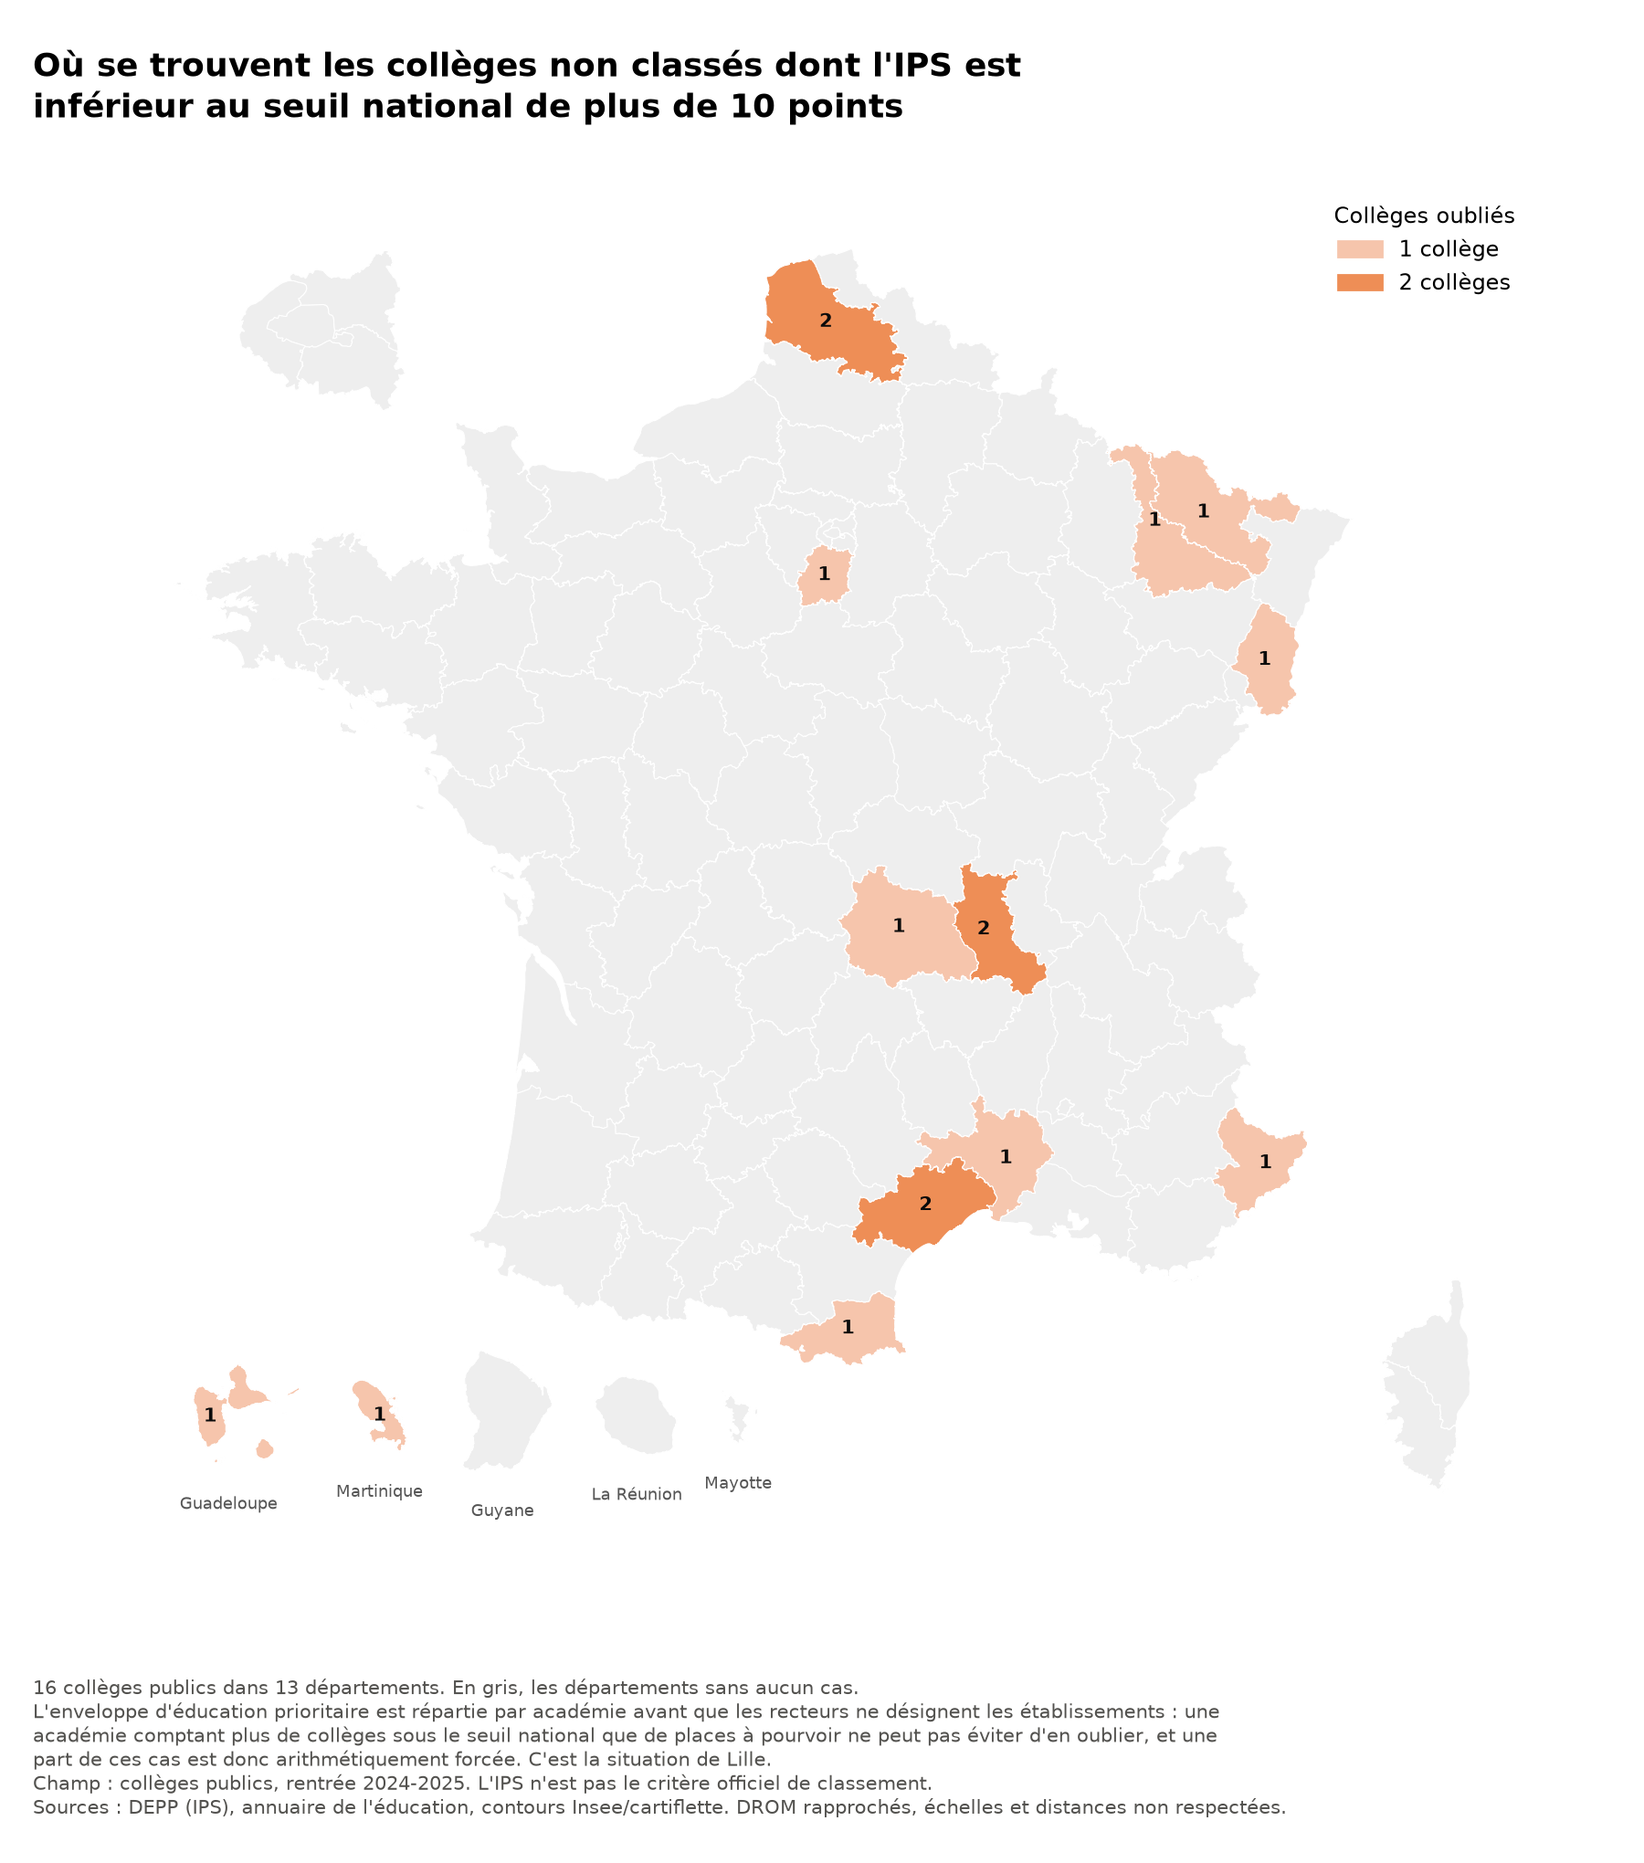
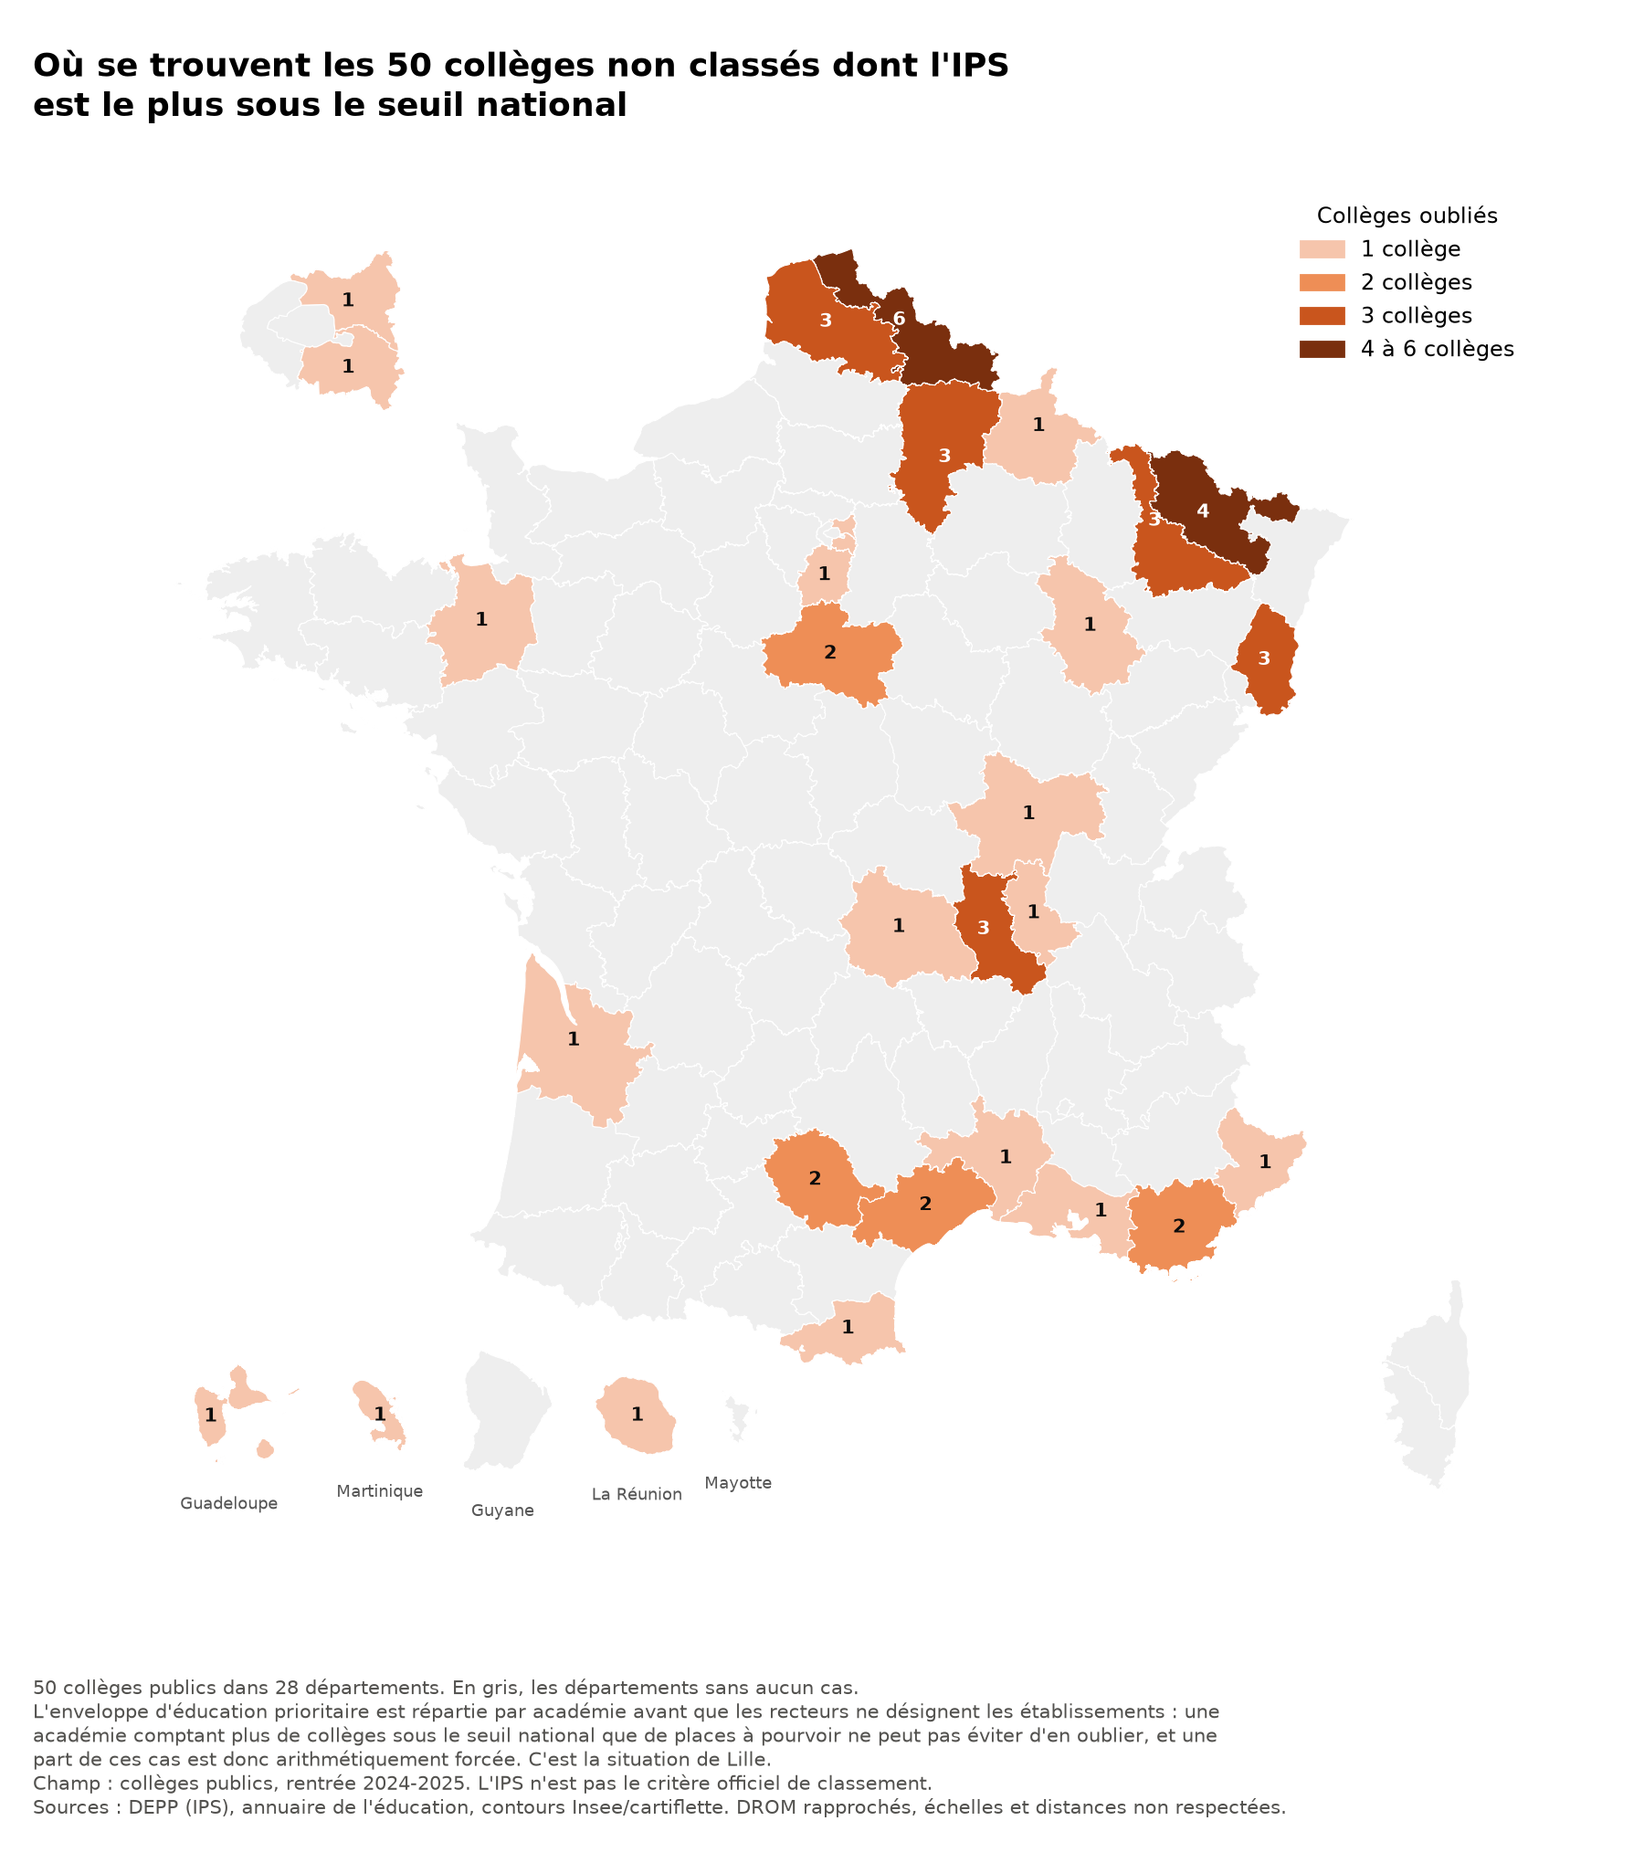
Ecarts extremes : selection par le rang plutot que par un seuil
Les quatre figures retiennent desormais les 50 plus gros ecarts de chaque
cote, au lieu de ceux depassant 10 points. Les deux series ont ainsi le meme
effectif, ce qui rend les cartes directement comparables.

La contrepartie est instructive et figure dans le sous-titre de chaque
figure : a effectif egal, les deux tops ne couvrent pas la meme etendue. Le
cinquantieme ecart vaut 7,7 points cote sur-inclusions et 5,7 points seulement
cote oublis. Il faut descendre plus bas pour reunir cinquante oublis — une
autre facon de constater que le dispositif se trompe plus fort lorsqu'il
classe que lorsqu'il omet.

Une quatrieme plage, sous 10 points, est ajoutee : sans elle, 18
sur-inclusions et 34 oublis n'auraient nulle part ou aller. Les trois autres
bornes sont inchangees et la tranche au-dela de 20 points reste vide cote
oublis, constat qui survit donc au changement de critere.

Ce que le nouveau critere revele, cote oublis : Lille 9 et Nancy-Metz 7, soit
un tiers du total, la ou Montpellier menait avec 4 sous l'ancien seuil. Ce
sont les deux academies que l'arithmetique de l'enveloppe contraint le plus.
Le critere precedent, en ne retenant que les ecarts les plus violents,
masquait ce phenomene de masse.

Le changement porte sur tout le module, diagrammes compris : deux figures
d'un meme fichier ne peuvent pas decrire des populations differentes.

diff --git a/src/ecarts_extremes.py b/src/ecarts_extremes.py
@@ -1,19 +1,24 @@
 """Les ecarts les plus forts au seuil budgetaire national, des deux cotes.
 
-Champ : colleges publics dont le score d'ecart au seuil NATIONAL (88,80 points)
-atteint au moins 10 points, soit plus de trois fois le seuil d'interpretabilite
-de 3 points recommande par la DEPP. Ce sont les cas qu'aucune imprecision de
-mesure ne peut expliquer.
+Champ : les CINQUANTE plus gros ecarts de chaque type, au seuil NATIONAL
+(88,80 points). Le classement se fait sur l'ampleur de l'ecart, non sur un
+seuil fixe.
+
+Consequence a connaitre : les deux tops ne couvrent pas la meme etendue. Du
+cote des sur-inclusions, le cinquantieme s'ecarte de 7,7 points ; du cote des
+oublis, de 5,7 points seulement. Un effectif constant des deux cotes impose
+donc d'aller chercher des ecarts plus faibles chez les oublis — c'est une
+autre facon de constater que les sur-inclusions sont plus amples.
 
 Deux types d'ecart, traites symetriquement :
 
     SUR-INCLUSION - college classe REP ou REP+ dont l'IPS DEPASSE le seuil.
     OUBLI         - college non classe dont l'IPS est INFERIEUR au seuil.
 
-Pour chacun, deux figures : barres empilees par academie, decoupees en trois
+Pour chacun, deux figures : barres empilees par academie, decoupees en quatre
 plages d'ecart, et carte portant l'effectif de chaque departement concerne.
 
-LES TROIS PLAGES SONT COMMUNES AUX DEUX TYPES, et conservees meme lorsqu'elles
+LES QUATRE PLAGES SONT COMMUNES AUX DEUX TYPES, et conservees meme lorsqu'elles
 sont vides. C'est indispensable : aucun oubli n'atteint 20 points alors que six
 sur-inclusions les depassent. Supprimer la tranche vide du cote des oublis
 rendrait les deux figures incomparables et effacerait ce constat.
@@ -53,35 +58,37 @@ from src.config import FIGURES, PROJECT_ROOT
 
 DOSSIER_TABLES = PROJECT_ROOT / "outputs" / "tables"
 
-ECART_MINIMAL = 10.0
+TOP_N = 50
 SEUIL_NATIONAL = 88.80
 
 # Bornes inferieure et superieure, et libelle. La derniere plage est ouverte.
-PLAGES = [(10.0, 15.0, "10 à 15 points"),
+# Une quatrieme plage, sous 10 points, est necessaire : a effectif fixe, le bas
+# du top descend en dessous du seuil de 10 points retenu auparavant.
+PLAGES = [(0.0, 10.0, "moins de 10 points"),
+          (10.0, 15.0, "10 à 15 points"),
           (15.0, 20.0, "15 à 20 points"),
           (20.0, np.inf, "plus de 20 points")]
 
-# Un reglage par type d'ecart. Les trois teintes servent aux plages du
-# diagramme ; la quatrieme, plus sombre, n'apparait que sur la carte, pour la
-# classe des departements comptant au moins quatre etablissements.
+# Un reglage par type d'ecart. `teintes` sert aux plages du diagramme,
+# `teintes_carte` aux classes d'effectif de la carte : deux rampes distinctes,
+# car la carte compte des colleges quand le diagramme mesure des points d'IPS.
 TYPES = {
     "sur-inclus": dict(
         radical="sur_inclusions",
-        teintes=["#a8c4e8", "#5588cc", "#1f3b73"],
-        teinte_carte="#0b2350",
+        teintes=["#cfdcf1", "#a8c4e8", "#5588cc", "#1f3b73"],
+        teintes_carte=["#a8c4e8", "#5588cc", "#1f3b73", "#0b2350"],
         # A partir de cet effectif, le fond est assez sombre pour porter du
         # texte blanc. Les deux rampes ne s'assombrissent pas au meme rythme.
         texte_blanc_des=2,
-        titre_barres="Collèges classés dont l'IPS dépasse largement le seuil national",
+        titre_barres="Les 50 collèges classés dont l'IPS dépasse le plus le seuil",
         sous_titre_barres=(
-            "Collèges publics classés REP ou REP+ dont l'IPS dépasse d'au moins "
-            "{mini:.0f} points celui de l'établissement qui ferme l'enveloppe "
-            "nationale ({seuil} points),\nsoit plus de trois fois le seuil de "
-            "3 points en deçà duquel la DEPP recommande de ne pas interpréter une "
-            "différence d'IPS."),
+            "Les {mini:.0f} plus gros écarts parmi les collèges publics classés REP "
+            "ou REP+ dont l'IPS dépasse celui de l'établissement qui ferme\n"
+            "l'enveloppe nationale ({seuil} points). Le cinquantième s'écarte de "
+            "7,7 points, le premier de 32,2."),
         axe_barres="Nombre de collèges publics sur-inclus",
-        titre_carte=("Où se trouvent les collèges classés dont l'IPS dépasse\n"
-                     "le seuil national de plus de 10 points"),
+        titre_carte=("Où se trouvent les 50 collèges classés dont l'IPS\n"
+                     "dépasse le plus le seuil national"),
         legende_carte="Collèges sur-inclus",
         contrainte=(
             "L'enveloppe d'éducation prioritaire est répartie par académie avant que "
@@ -92,19 +99,18 @@ TYPES = {
     ),
     "oublie": dict(
         radical="oublis",
-        teintes=["#f6c5ac", "#ee8e56", "#c9551d"],
-        teinte_carte="#7a2f0e",
+        teintes=["#fbe0d2", "#f6c5ac", "#ee8e56", "#c9551d"],
+        teintes_carte=["#f6c5ac", "#ee8e56", "#c9551d", "#7a2f0e"],
         texte_blanc_des=3,
-        titre_barres="Collèges non classés dont l'IPS est très inférieur au seuil national",
+        titre_barres="Les 50 collèges non classés dont l'IPS est le plus sous le seuil",
         sous_titre_barres=(
-            "Collèges publics classés ni REP ni REP+ dont l'IPS est inférieur d'au "
-            "moins {mini:.0f} points à celui de l'établissement qui ferme "
-            "l'enveloppe nationale ({seuil} points),\nsoit plus de trois fois le "
-            "seuil de 3 points en deçà duquel la DEPP recommande de ne pas "
-            "interpréter une différence d'IPS."),
+            "Les {mini:.0f} plus gros écarts parmi les collèges publics classés ni "
+            "REP ni REP+ dont l'IPS est inférieur à celui de l'établissement qui\n"
+            "ferme l'enveloppe nationale ({seuil} points). Le cinquantième s'écarte "
+            "de 5,7 points, le premier de 17,4."),
         axe_barres="Nombre de collèges publics non classés",
-        titre_carte=("Où se trouvent les collèges non classés dont l'IPS est\n"
-                     "inférieur au seuil national de plus de 10 points"),
+        titre_carte=("Où se trouvent les 50 collèges non classés dont l'IPS\n"
+                     "est le plus sous le seuil national"),
         legende_carte="Collèges oubliés",
         contrainte=(
             "L'enveloppe d'éducation prioritaire est répartie par académie avant que "
@@ -142,15 +148,22 @@ def replier(texte: str, largeur: int = LARGEUR_NOTE_CARTE) -> str:
 
 
 def charger(type_ecart: str) -> pd.DataFrame:
-    """Colleges d'un type d'ecart donne, au-dela de ECART_MINIMAL, avec leur plage."""
+    """Les TOP_N plus gros ecarts d'un type donne, avec leur plage.
+
+    La selection se fait sur le RANG et non sur un seuil : les deux types sont
+    ainsi representes par un effectif identique, ce qui rend les cartes
+    directement comparables. En contrepartie, les deux tops ne couvrent pas la
+    meme etendue d'ecart — c'est la rancon d'un effectif constant, et le
+    sous-titre de chaque figure le precise.
+    """
     fichier = DOSSIER_TABLES / "score_ecart_ips.csv"
     if not fichier.exists():
         raise FileNotFoundError(
             f"{fichier.name} absent. Lance d'abord : uv run python -m src.score_ecart")
 
     df = pd.read_csv(fichier, dtype={"code_departement": str, "code_commune": str})
-    sous = df[(df["type_ecart"] == type_ecart)
-              & (df["score_ecart_ips"] >= ECART_MINIMAL)].copy()
+    sous = df[df["type_ecart"] == type_ecart].nlargest(
+        TOP_N, "score_ecart_ips").copy()
 
     sous["plage"] = pd.cut(
         sous["score_ecart_ips"],
@@ -214,7 +227,7 @@ def figure_academies(sous: pd.DataFrame, reglage: dict) -> None:
                  x=0.02, ha="left", y=0.975)
     fig.text(0.02, 0.945,
              reglage["sous_titre_barres"].format(
-                 mini=ECART_MINIMAL,
+                 mini=TOP_N,
                  # Separateur decimal francais : "88,80" et non "88.80".
                  seuil=f"{SEUIL_NATIONAL:.2f}".replace(".", ",")),
              fontsize=8.5, va="top", color=ENCRE_2)
@@ -239,7 +252,7 @@ def classes_effectif(maximum: int, reglage: dict) -> tuple:
     """
     paliers = [0.5, 1.5, 2.5, 3.5]
     bornes = np.array([b for b in paliers if b < maximum] + [maximum + 0.5])
-    couleurs = (reglage["teintes"] + [reglage["teinte_carte"]])[:len(bornes) - 1]
+    couleurs = reglage["teintes_carte"][:len(bornes) - 1]
 
     etiquettes = [f"{n} collège" + ("s" if n > 1 else "")
                   for n in range(1, len(bornes) - 1)]
@@ -313,8 +326,9 @@ def main() -> None:
 
     for type_ecart, reglage in TYPES.items():
         sous = charger(type_ecart)
-        print(f"\n{'=' * 72}\n{type_ecart.upper()} : {len(sous)} colleges "
-              f"d'au moins {ECART_MINIMAL:.0f} points\n{'=' * 72}")
+        q = sous["score_ecart_ips"]
+        print(f"\n{'=' * 72}\n{type_ecart.upper()} : top {len(sous)}, "
+              f"de {q.min():.1f} a {q.max():.1f} points d'ecart\n{'=' * 72}")
         print(sous["plage"].value_counts().reindex(
             [libelle for _, _, libelle in PLAGES]).to_string())
 

diff --git a/README.md b/README.md
@@ -200,22 +200,31 @@ Ces deux cas sont de sens opposé : **oubli** (sous le seuil, non classé) et
 
 **Commentaire à ajouter moi meme**
 
+Les quatre figures qui suivent retiennent, de chaque côté, les **50 plus gros
+écarts**. La sélection se fait sur le rang et non sur un seuil fixe : les deux
+séries ont ainsi le même effectif, ce qui rend les cartes directement comparables.
+
+La contrepartie est instructive. **À effectif égal, les deux tops ne couvrent pas la
+même étendue** : le cinquantième écart vaut 7,7 points du côté des sur-inclusions et
+5,7 points seulement du côté des oublis. Il faut donc descendre plus bas pour réunir
+cinquante oublis — une autre façon de constater que le dispositif se trompe plus fort
+lorsqu'il classe que lorsqu'il omet.
+
 #### Les sur-inclusions
 
 ![Collèges sur-inclus par académie et par ampleur de l'écart](outputs/figures/sur_inclusions_academies.png)
 
-Treize académies sur trente sont concernées ; les dix-sept autres n'ont aucun cas.
-**Paris en concentre 11 à lui seul**, dont 4 des 6 écarts supérieurs à 20 points.
-Bordeaux suit avec 5, dont les 2 autres écarts extrêmes. À elles deux, ces académies
-détiennent la totalité de la tranche haute.
+Vingt académies sur trente sont représentées ; les dix autres n'ont aucun collège
+dans le top 50. **Paris en concentre 13 à lui seul**, dont les 4 écarts supérieurs à
+20 points. Bordeaux suit avec 6, dont les 2 autres écarts extrêmes : à elles deux,
+ces académies détiennent la totalité de la tranche haute.
 
 ![Nombre de collèges sur-inclus par département](outputs/figures/sur_inclusions_departements.png)
 
-Seize départements sont concernés : Paris (11), la Gironde (3), puis la Corse-du-Sud,
-la Dordogne, la Seine-Saint-Denis et la Nièvre (2 chacun). Le fait notable est
-l'**absence de motif géographique** : en dehors de deux foyers urbains, les cas sont
-isolés et dispersés, sans continuité territoriale, et aucun DROM n'est concerné. Il
-ne s'agit donc pas d'un phénomène régional mais d'une accumulation de situations
+Vingt-huit départements sont concernés : Paris (13), puis la Gironde, la Nièvre et la
+Corse-du-Sud (3 chacun). Le fait notable est l'**absence de motif géographique** :
+en dehors de Paris, les cas sont isolés et dispersés, sans continuité territoriale.
+Il ne s'agit donc pas d'un phénomène régional mais d'une accumulation de situations
 locales.
 
 #### Les oublis
@@ -225,22 +234,24 @@ locales.
 **Aucun oubli n'atteint 20 points** — le plus fort vaut 17,4 — alors que six
 sur-inclusions dépassent ce niveau. La tranche haute figure dans la légende mais
 reste vide : les deux figures partagent le même découpage, sans quoi l'asymétrie
-disparaîtrait de la lecture. Elle est le fait le plus net de cette comparaison.
-Le dispositif se trompe donc dans les deux sens, mais il se trompe plus souvent
-*et* plus fort lorsqu'il classe que lorsqu'il omet.
+disparaîtrait de la lecture. Et là où 32 sur-inclusions dépassent 10 points, les
+oublis ne sont que 16 : les deux tiers du top 50 des oublis restent sous ce niveau.
 
-Dix académies sont concernées, et la dispersion est bien plus forte que du côté des
-sur-inclusions : Montpellier en compte 4, Lille, Lyon et Nancy-Metz 2 chacune, six
-autres une seule. Aucune académie ne domine comme Paris domine les sur-inclusions.
+Vingt académies sont représentées, et la concentration est d'une tout autre nature
+que du côté des sur-inclusions : **Lille en compte 9 et Nancy-Metz 7**, soit un tiers
+du total à elles deux, mais aucune ne domine comme Paris. Ce sont deux académies que
+l'arithmétique de l'enveloppe contraint — elles comptent plus de collèges sous le
+seuil national que de places à pourvoir.
 
 ![Nombre de collèges oubliés par département](outputs/figures/oublis_departements.png)
 
-Treize départements, dont trois à deux collèges — l'Hérault, la Loire et le
-Pas-de-Calais. La répartition est ici franchement périphérique : Nord-Est, sillon
-rhodanien, arc méditerranéen, Antilles. Les deux cas les plus marqués sont le collège
-Gérard Philipe de Clermont-Ferrand (IPS 71,4) et le collège Montesquieu
-d'Évry-Courcouronnes (71,8), non classés alors que leur IPS les place parmi les plus
-défavorisés de France.
+Vingt-huit départements. Le **Nord en compte 6** et la Moselle 4, devant l'Aisne, la
+Meurthe-et-Moselle, le Haut-Rhin, le Pas-de-Calais et la Loire (3 chacun). La
+répartition est ici franchement périphérique et continue — Nord, Nord-Est, sillon
+rhodanien, arc méditerranéen — à l'inverse du semis dispersé des sur-inclusions. Les
+deux cas les plus marqués sont le collège Gérard Philipe de Clermont-Ferrand
+(IPS 71,4) et le collège Montesquieu d'Évry-Courcouronnes (71,8), non classés alors
+que leur IPS les place parmi les plus défavorisés de France.
 
 ### Pourquoi Paris n'est pas comparable aux autres
 
